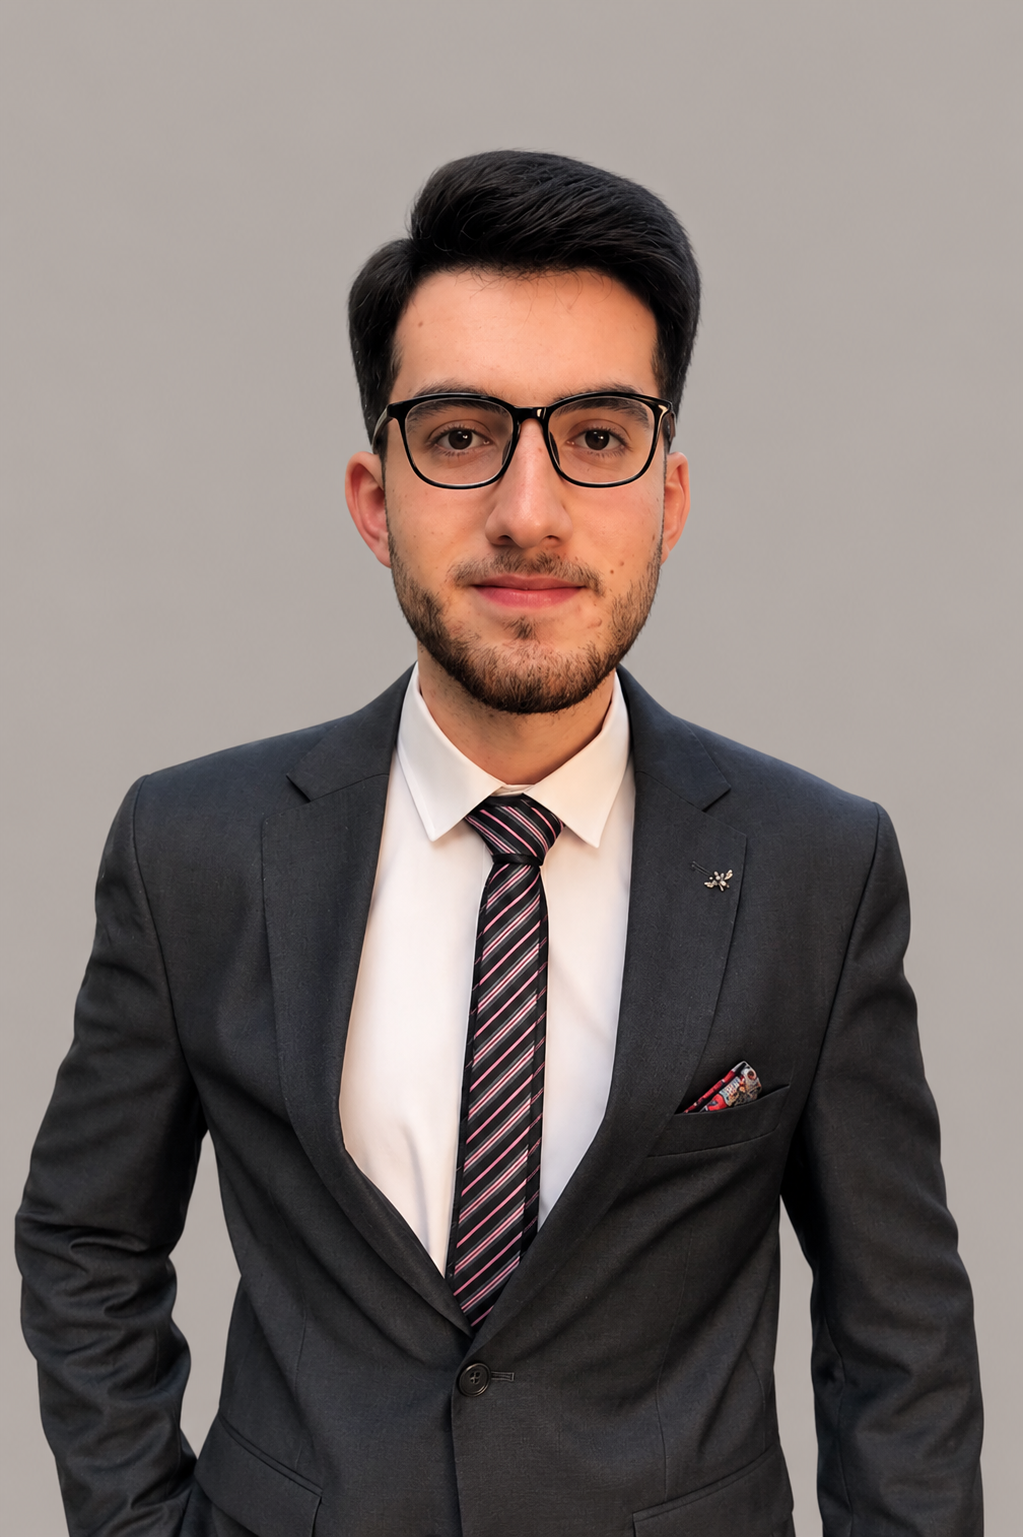
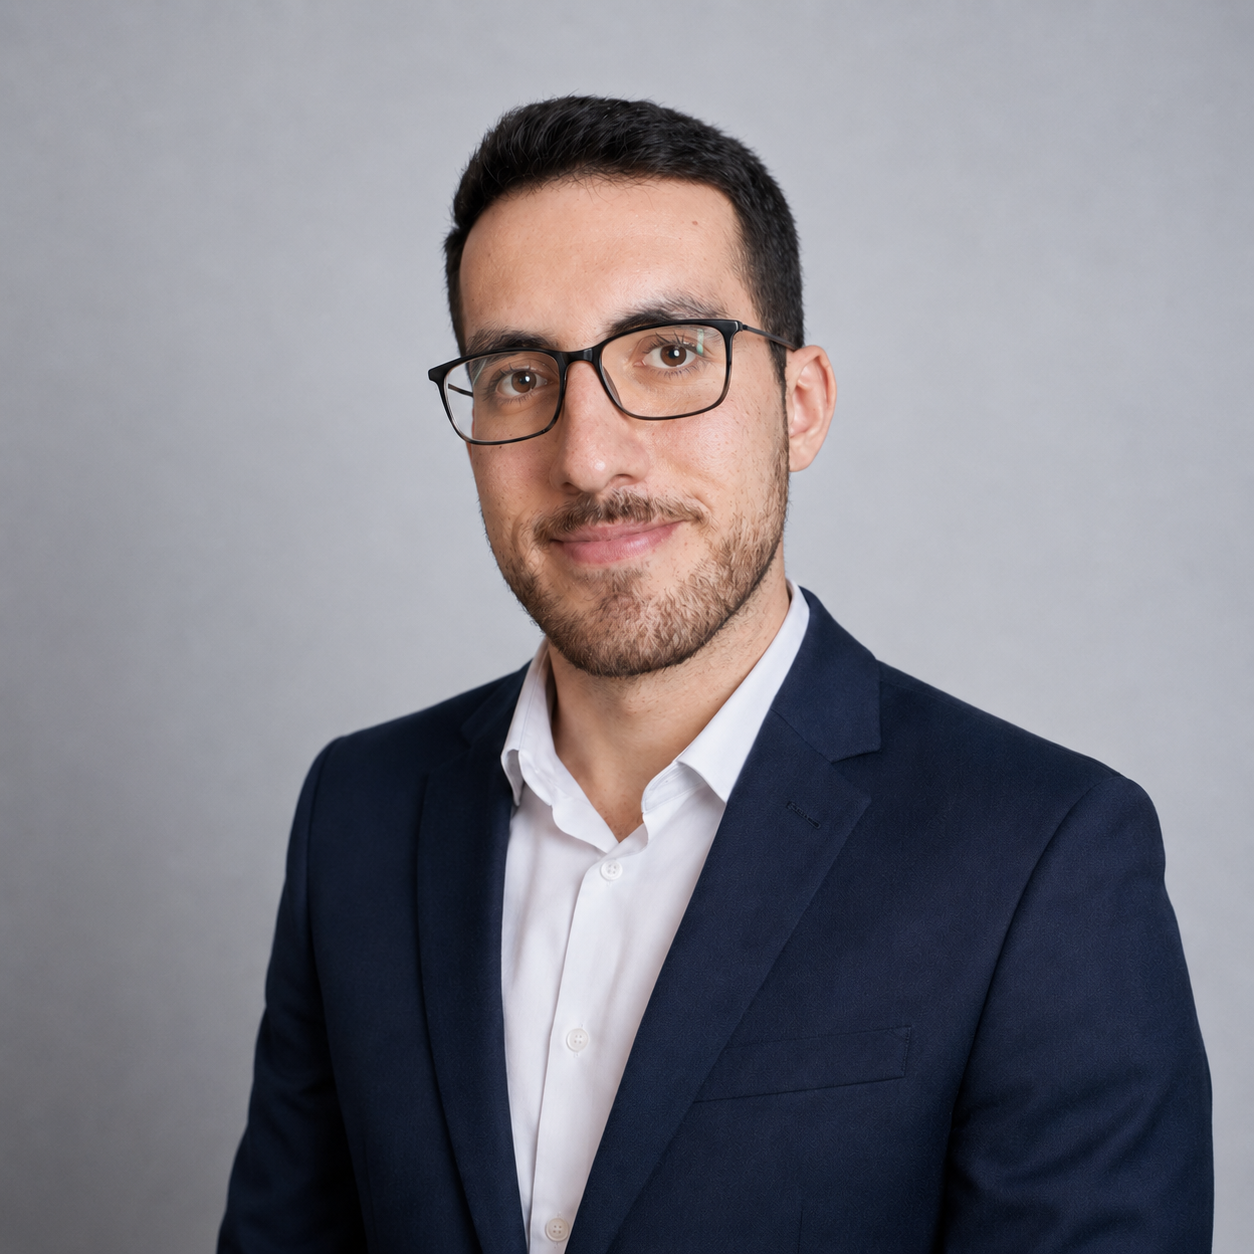
update the About image

diff --git a/next.config.ts b/next.config.ts
@@ -1,7 +1,5 @@
 import type { NextConfig } from "next";
 
-const nextConfig: NextConfig = {
-  /* config options here */
-};
+const nextConfig: NextConfig = {};
 
 export default nextConfig;